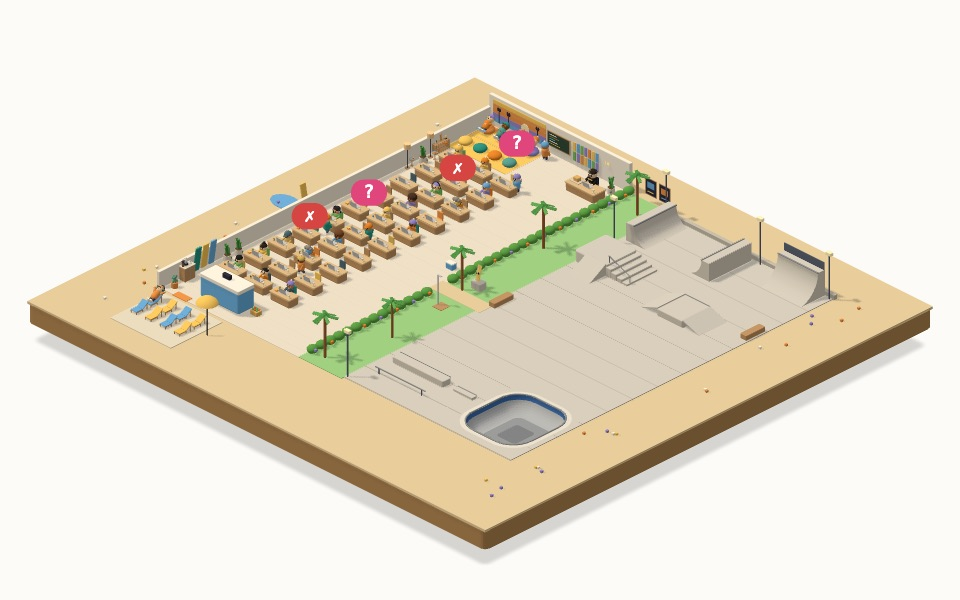
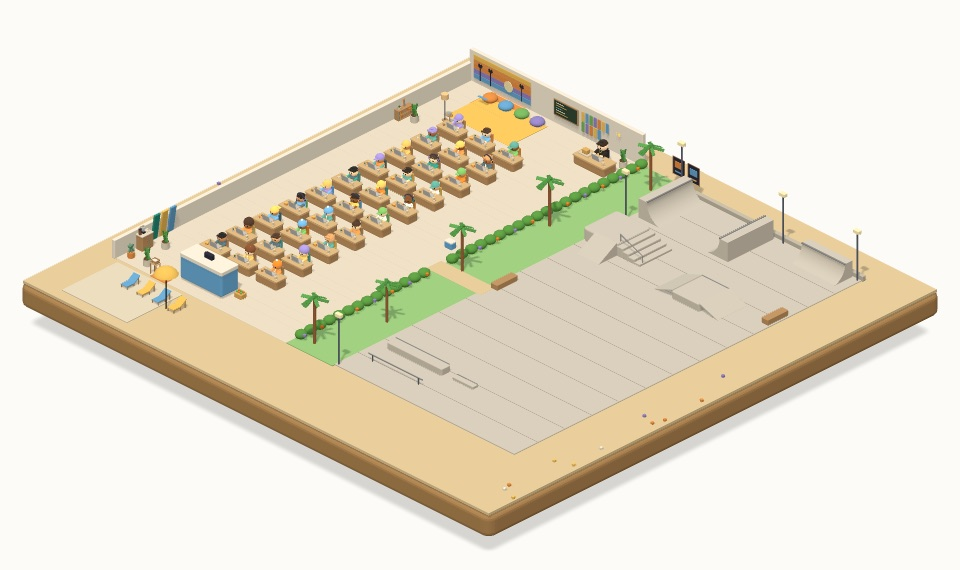
fix(bims): designer m_41390's two nits on the clay look: an afro never wider than the shoulders (half-width 0.29), main's chain a thin gold U hanging from the collar over its :*; the reference shots in docs/brand/bims/ redrawn with the clay bims (signed m_41403). quick GREEN

Changed region(s): [[0.0, 0.0895, 1.0, 0.9842]]

diff --git a/apps/desktop/src/bims/render/bim.ts b/apps/desktop/src/bims/render/bim.ts
@@ -50,6 +50,8 @@ const CLOSED = 0.25;
 export const NEAR_PX = 22;
 /** whether a bim seen through a fit of `scale` (world units per css px) draws its small details. Pure. */
 export const nearAt = (scale: number): boolean => scale > 0 && 1 / scale >= NEAR_PX;
+/** an afro's half-width: inside the shoulders' (0.24 + a sleeve's 0.078), as the old afro sat inside the old shoulders */
+const AFRO_W = 0.29;
 /** the rigid parts, each baked into one mesh (two with a far level of detail) */
 export const PARTS = ['head', 'body', 'armL', 'armR', 'legL', 'legR'] as const;
 
@@ -258,7 +260,8 @@ export function makeBim(name: string, main: boolean, style: Style, outfit?: Outf
       add(style.ball(0.06), mat(WORLD.paper), hat, 0, 0.28, 0);
       break;
     case 'afro':
-      add(style.ball(0.27), mat(o.hair), hat, 0, 0.1, -0.05).scale.set(1.05, 0.85, 1);
+      // never wider than the shoulders (designer m_41390 1): AFRO_W half-width at the clay head's size
+      add(style.ball(0.27), mat(o.hair), hat, 0, 0.1, -0.05).scale.set(AFRO_W / (0.27 * HAT_K), 0.85, 0.95);
       break;
     case 'bun':
       add(style.cap(0.226, 0.42), mat(o.hair), hat, 0, 0.02, -0.01);
@@ -302,7 +305,10 @@ export function makeBim(name: string, main: boolean, style: Style, outfit?: Outf
       add(style.box(0.05, 0.05, 0.02), neon, body, -0.06, 0.58, 0.215);
       add(style.box(0.05, 0.05, 0.02), neon, body, -0.06, 0.47, 0.215);
       for (let i = 0; i < 3; i++) add(style.box(0.11, 0.025, 0.02), neon, body, 0.05, 0.525, 0.215).rotation.z = (i * Math.PI) / 3;
-      add(style.box(0.3, 0.03, 0.03), mat(WORLD.gold, 0.2), body, 0, 0.7, 0.2);
+      // the chain hangs as a thin U from the collar, its lowest point over the :* (designer m_41390 2),
+      // leaning back with the chest so it lies on the hoodie
+      const chain = add(new TorusGeometry(0.08, 0.011, 6, 18, Math.PI), mat(WORLD.gold, 0.2), body, 0, 0.735, 0.148);
+      chain.rotation.set(-0.5, 0, Math.PI, 'XYZ');
       break;
     }
   }
